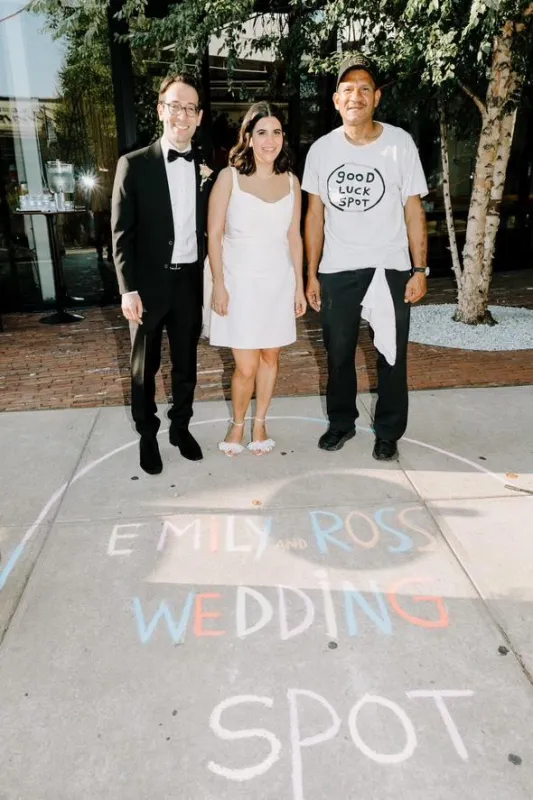
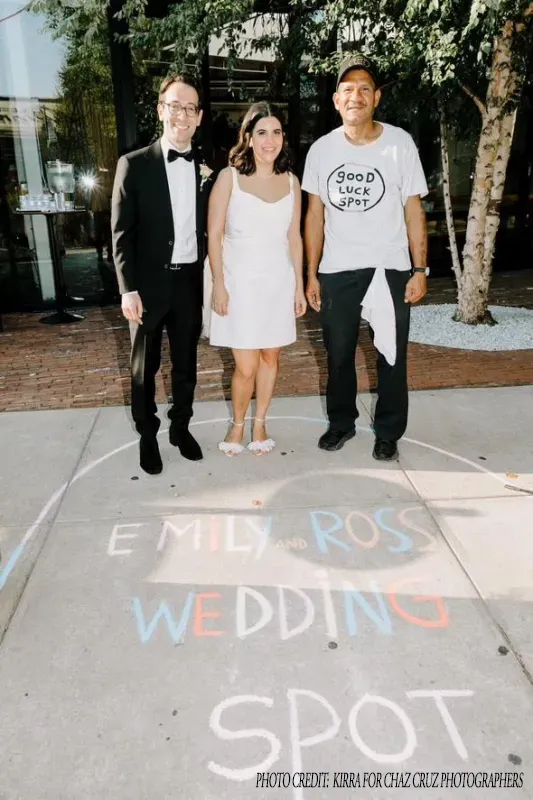
fixed some misspellings, added photo credit and added instructions for zelle, added birthday spot

Changed region(s): [[0.4803, 0.9688, 0.9906, 1.0]]

diff --git a/index.html b/index.html
@@ -176,7 +176,7 @@
         <h3>For the People</h3>
         <p>
           Morelo is also an experimental performance artist, poet, sculptor,
-          printmaker, Muralist, and bookmaker who welcomes collaborations with
+          printmaker, muralist, and bookmaker who welcomes collaborations with
           galleries, venues, and fellow artists. He participates in art talks
           and presentations and welcomes media inquiries. He runs an accessible
           mini portable storefront at parks, alternative venues, and by
@@ -276,7 +276,7 @@
               alt="Westview News Article"
               loading="lazy"
             />
-            <p>Looking fo good luck?</p>
+            <p>Looking for good luck?</p>
           </a>
         </div>
       </div>
@@ -355,7 +355,7 @@
         />
 
         <img
-          src="/assets/gallery/happybirthday.webp"
+          src="/assets/gallery/henry.webp"
           class="carousel-photo"
           alt="JudgeLaurensSpot"
         />
@@ -588,6 +588,9 @@
             alt="Twitter"
           />
         </a>
+        <p>
+          Please DM me for Zelle Instructions. All other links can be clicked on
+        </p>
       </div>
     </section>
 

diff --git a/src/styles.css b/src/styles.css
@@ -279,6 +279,17 @@ body {
   background-color: green;
 }
 
+.photo-credit {
+  position: absolute;
+  top: -9px; /* Adjust this value to move the text up or down */
+  left: 85px; /* Adjust this value to move the text left or right */
+  color: white; /* Ensure the text is visible over the image */
+  font-size: 1rem; /* Adjust the font size */
+  background-color: rgba(0, 0, 0, 0.5); /* Add a semi-transparent background */
+  padding: 5px;
+  border-radius: 5px;
+}
+
 /* Contact Section Styles */
 .contact-section {
   background-color: #d0e8ff;
@@ -319,7 +330,7 @@ body {
   width: 100%;
   height: auto; /* Maintain aspect ratio */
   margin-top: -30px;
-  margin-bottom: 50px;
+  margin-bottom: -30;
 }
 
 .social-media-links,
